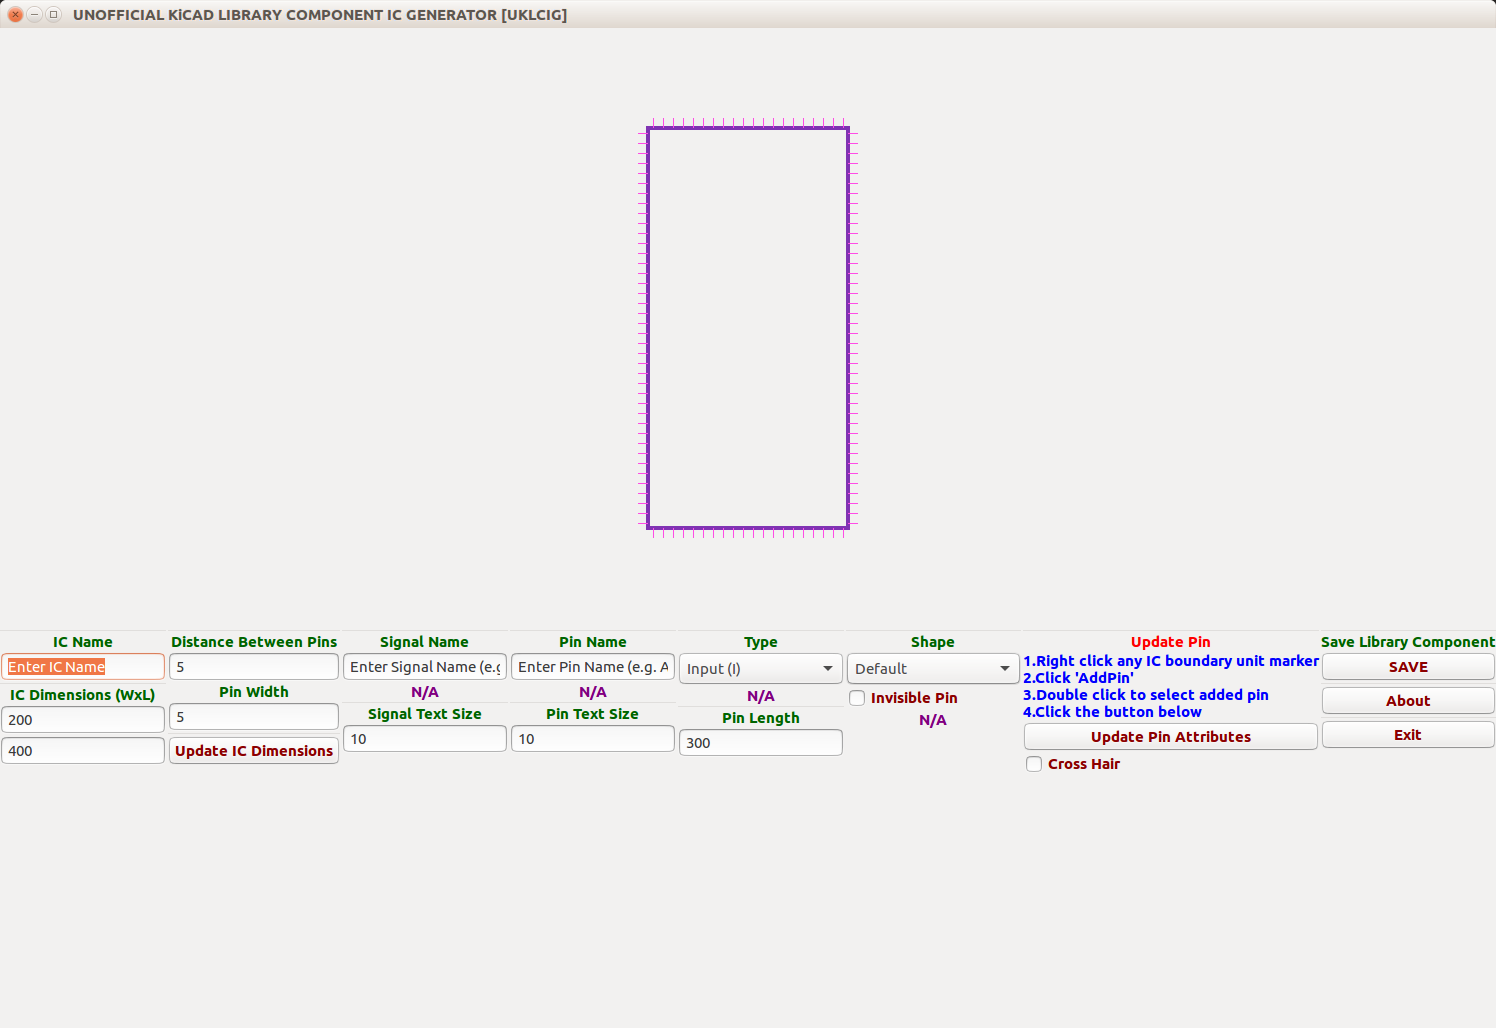
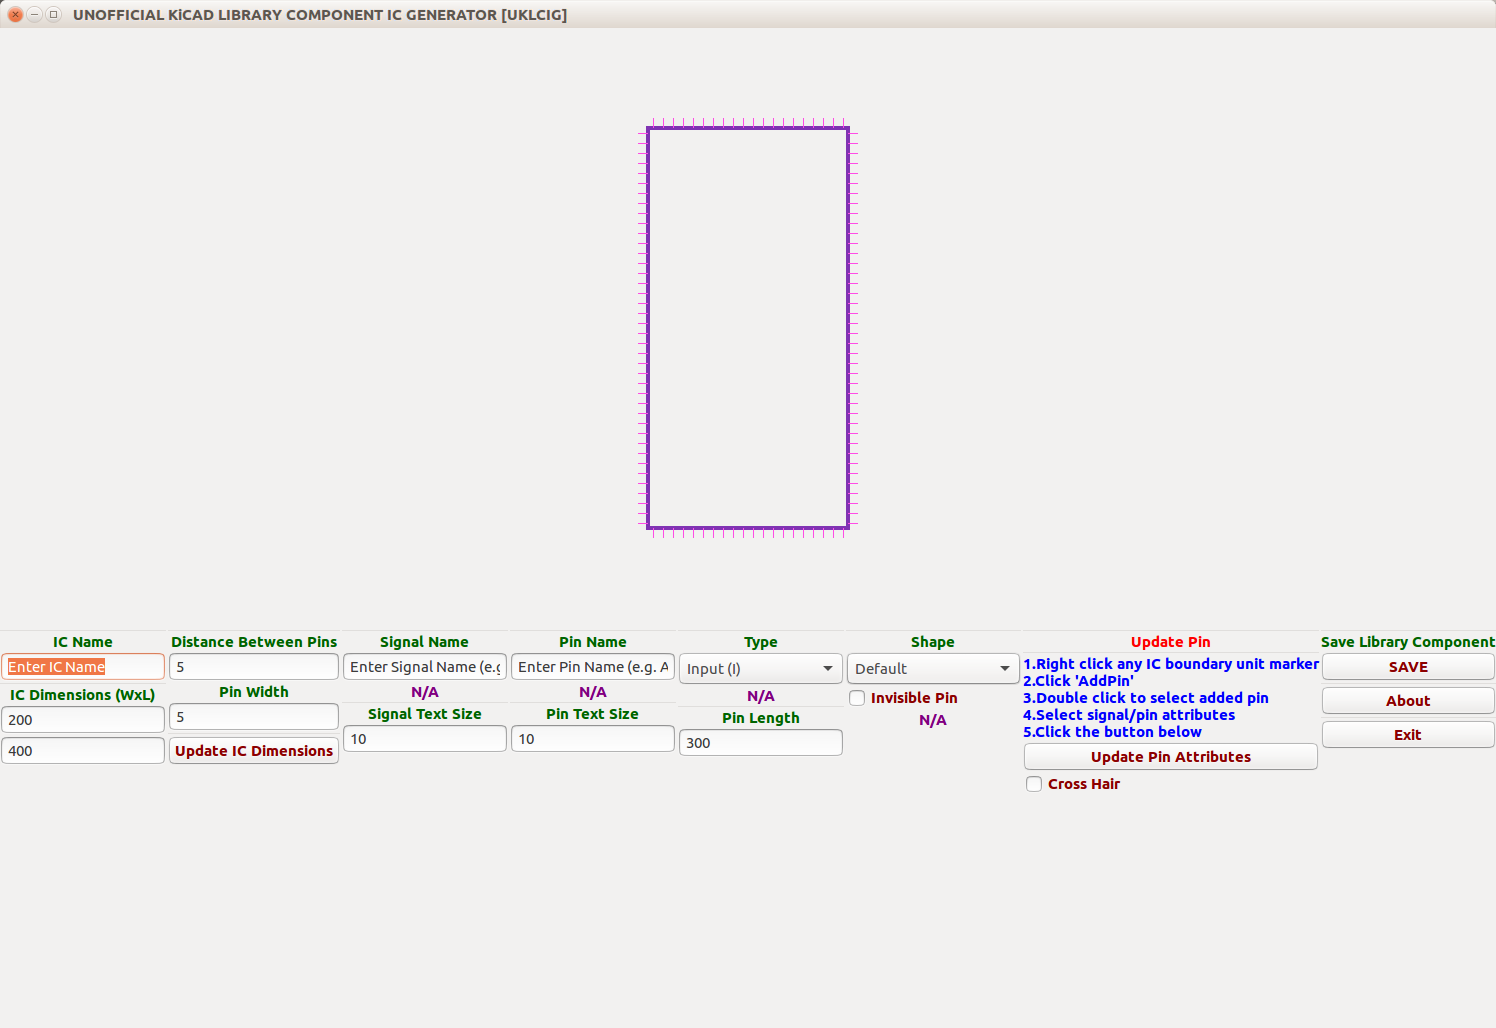
added screenshot and updated instructions

Changed region(s): [[0.6765, 0.6226, 0.8917, 0.7782]]

diff --git a/uklcig.py b/uklcig.py
@@ -409,12 +409,13 @@ class UKLCIG(Gtk.Window):
         self.vbox5.pack_start(self.cur_shape_label, False, False, 0)
 
         hseparator = Gtk.HSeparator()
+        hseparator1 = Gtk.HSeparator()
         self.update_pin_label = Gtk.Label("")
         self.update_pin_label.set_label("<b>Update Pin</b>")
         self.update_pin_label.modify_fg(Gtk.StateType.NORMAL, Gdk.Color.parse("red")[1])
         self.update_pin_label.set_use_markup(True)
         self.update_inst_label = Gtk.Label("")
-        self.update_inst_label.set_label("<b>1.Right click any IC boundary unit marker\n2.Click 'AddPin'\n3.Double click to select added pin\n4.Click the button below</b>")
+        self.update_inst_label.set_label("<b>1.Right click any IC boundary unit marker\n2.Click 'AddPin'\n3.Double click to select added pin\n4.Select signal/pin attributes\n5.Click the button below</b>")
         self.update_inst_label.modify_fg(Gtk.StateType.NORMAL, Gdk.Color.parse("blue")[1])
         self.update_inst_label.set_use_markup(True)
         self.update_pin_button = Gtk.Button("")
@@ -431,6 +432,7 @@ class UKLCIG(Gtk.Window):
 
         self.vbox6.pack_start(hseparator, False, False, 0)
         self.vbox6.pack_start(self.update_pin_label, False, False, 0)
+        self.vbox6.pack_start(hseparator1, False, False, 0)
         self.vbox6.pack_start(self.update_inst_label, False, False, 0)
         self.vbox6.pack_start(self.update_pin_button, False, False, 0)
         self.vbox6.pack_start(self.crosshair_button, False, False, 0)
